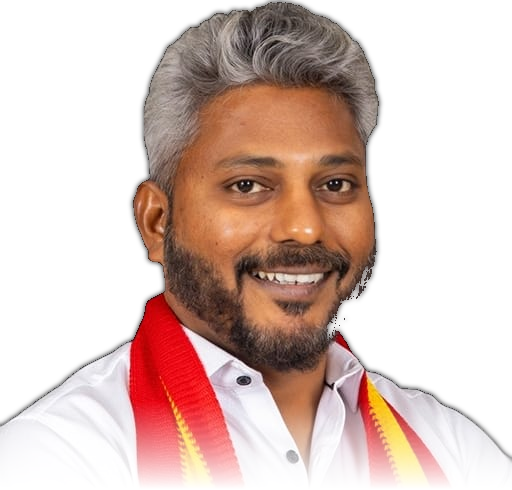
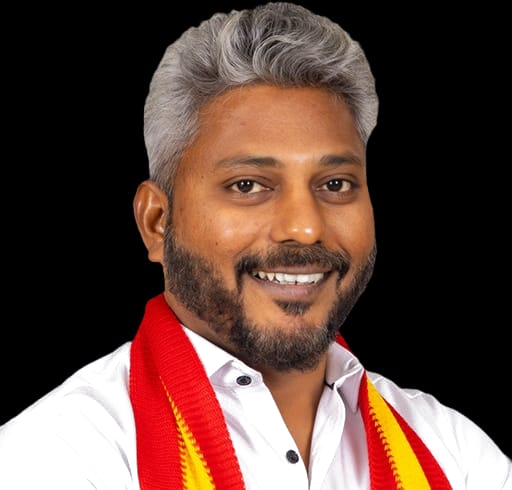
Swap 3rd and 4th MLA photo positions

diff --git a/public/index.html b/public/index.html
@@ -690,6 +690,10 @@
         drop-shadow(0 0 12px rgba(245,197,24,0.4));
       animation: ministerFadeIn 1s ease 0.3s both;
     }
+    .mla4-photo {
+      max-width: 180px;
+      height: 180px;
+    }
     @keyframes ministerFadeIn {
       from { opacity: 0; transform: translateY(24px); }
       to   { opacity: 1; transform: translateY(0); }
@@ -981,23 +985,24 @@
       <!-- Leader row (two cards) -->
       <div class="ministers-row">
 
+        <!-- 4th MLA (now in 3rd position) -->
         <div class="minister-block">
           <div class="minister-block-inner">
-            <img src="assets/leader-cutout.png" alt="T. ராஜேஷ்" class="minister-photo">
-            <div class="minister-name">T. ராஜேஷ்</div>
-            <div class="minister-desig">சென்னை வடக்கு மாவட்ட<br>இணை செயலாளர்</div>
+            <img src="assets/mla4-cutout.png" alt="சுறா G. வேலு" class="minister-photo mla4-photo">
+            <div class="minister-name" style="font-family:'Noto Sans Tamil','Poppins',sans-serif;">சுறா G. வேலு</div>
+            <div class="minister-desig" style="font-family:'Noto Sans Tamil',sans-serif;">வடசென்னை கிழக்கு மாவட்டச்<br>செயலாளர்</div>
           </div>
         </div>
 
         <!-- Vertical divider -->
         <div class="minister-col-divider"></div>
 
-        <!-- 4th MLA -->
+        <!-- Leader (now in 4th position) -->
         <div class="minister-block">
           <div class="minister-block-inner">
-            <img src="assets/mla4-cutout.png" alt="சுறா G. வேலு" class="minister-photo">
-            <div class="minister-name" style="font-family:'Noto Sans Tamil','Poppins',sans-serif;">சுறா G. வேலு</div>
-            <div class="minister-desig" style="font-family:'Noto Sans Tamil',sans-serif;">வடசென்னை கிழக்கு மாவட்டச்<br>செயலாளர்</div>
+            <img src="assets/leader-cutout.png" alt="T. ராஜேஷ்" class="minister-photo">
+            <div class="minister-name">T. ராஜேஷ்</div>
+            <div class="minister-desig">சென்னை வடக்கு மாவட்ட<br>இணை செயலாளர்</div>
           </div>
         </div>
 
